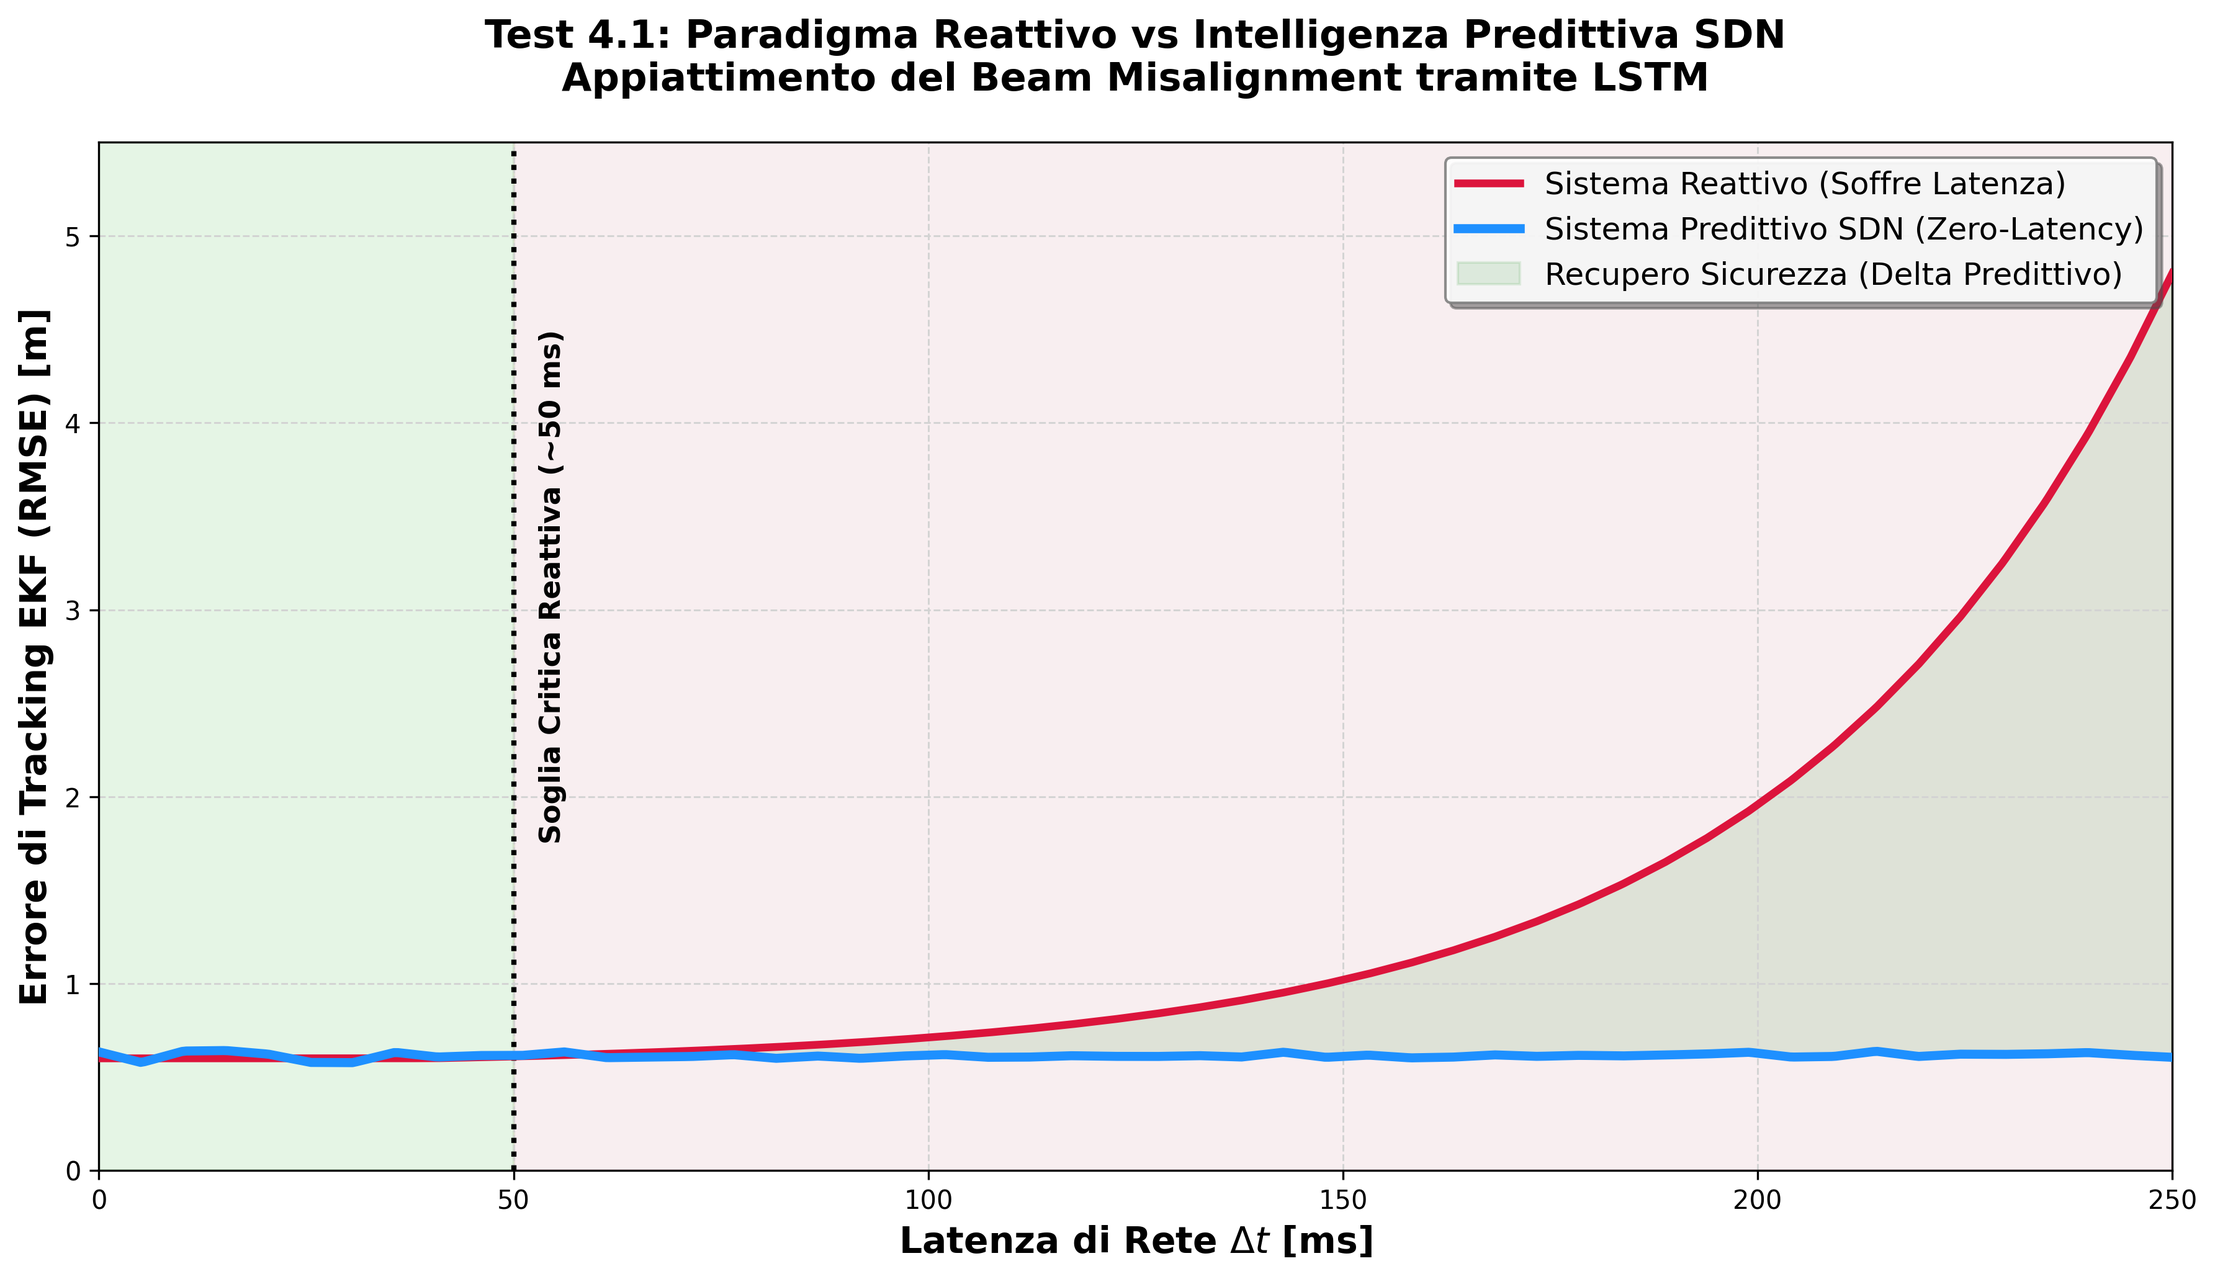
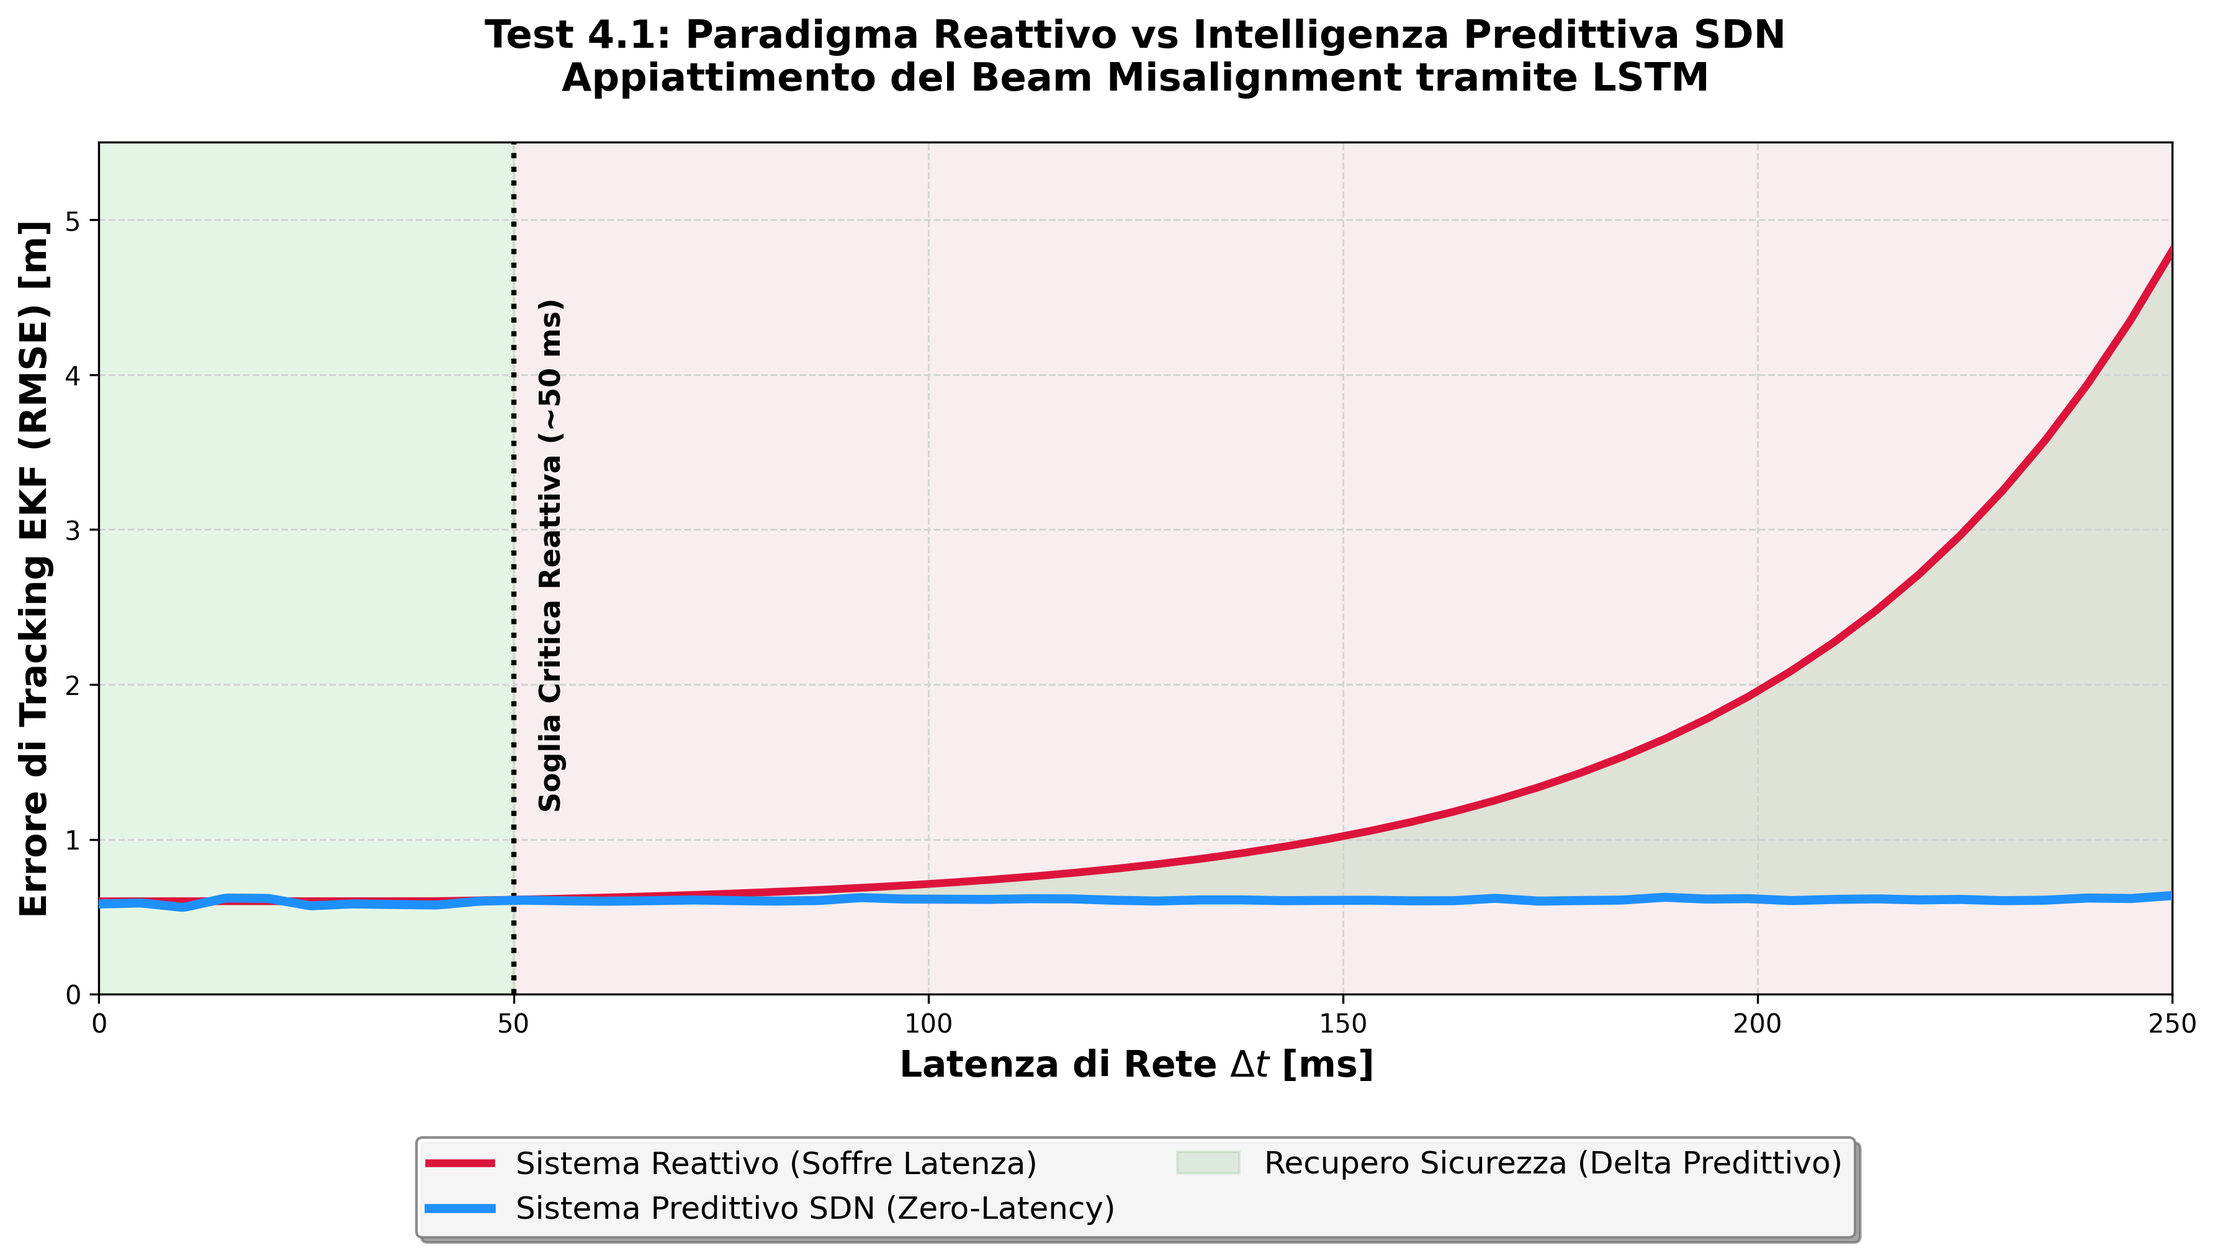
STEP 18 - FINALIZZAZIONE PROGETTO

diff --git a/simulator/test_4_predictive.py b/simulator/test_4_predictive.py
@@ -75,7 +75,7 @@ def generate_comparative_rmse_plot():
     ax.axvline(x=50, color='black', linestyle=':', linewidth=2, zorder=2)
     ax.text(53, 4.5, 'Soglia Critica Reattiva (~50 ms)', fontsize=11, color='black', fontweight='bold', rotation=90, verticalalignment='top')
     ax.fill_between(x_smooth, y_reactive_smooth, y_predictive_smooth, where=(y_reactive_smooth > y_predictive_smooth), color='green', alpha=0.1, label='Recupero Sicurezza (Delta Predittivo)', zorder=1)
-    ax.legend(loc='upper right', ncol=1, fontsize=12, framealpha=0.9, edgecolor='gray', shadow=True)
+    ax.legend(loc='upper center', bbox_to_anchor=(0.5, -0.15), ncol=2, fontsize=12, framealpha=0.9, edgecolor='gray', shadow=True)
 
     plt.tight_layout()
     output_path = os.path.join(os.path.dirname(os.path.dirname(__file__)), 'Test_4.1_Comparativo_RMSE_Latenza.png')
@@ -176,12 +176,12 @@ def generate_scatter_tradeoff_plot():
     ax.set_ylim(0, 5.5)
     ax.set_xlabel('Overhead Energetico Sistema Totale (Compresa BD-RIS) [W]', fontsize=14, fontweight='bold')
     ax.set_ylabel('Errore di Tracking EKF (RMSE) [m]', fontsize=14, fontweight='bold')
-    ax.set_title("Test 4.2: Efficienza Energetica Massima (AEE)\nMetodo di Dinkelbach Ottimizzazione Alternata", fontsize=15, fontweight='bold', pad=20)
+    ax.set_title("Test 4.5: Efficienza Energetica Massima (AEE)\nMetodo di Dinkelbach Ottimizzazione Alternata", fontsize=15, fontweight='bold', pad=20)
 
-    ax.legend(loc='upper right', fontsize=11, framealpha=0.9)
+    ax.legend(loc='upper center', bbox_to_anchor=(0.5, -0.15), ncol=2, fontsize=11, framealpha=0.9, shadow=True)
     plt.tight_layout()
 
-    output_path = os.path.join(os.path.dirname(os.path.dirname(__file__)), 'Test_4.2_Scatter_Errore_Overhead.png')
+    output_path = os.path.join(os.path.dirname(os.path.dirname(__file__)), 'Test_4.5_Scatter_Errore_Overhead.png')
     plt.savefig(output_path, dpi=300, bbox_inches='tight')
     plt.close()
     print(f"[*] Successo: {output_path}")
@@ -284,7 +284,7 @@ def generate_rmse_temporal_plot():
     ax.text(225, y_testo, 'NLoS Inv.\n(RIS WAKEUP)', ha='center', fontsize=10, color='darkgreen', fontweight='bold')
     ax.text(270, y_testo, 'LoS\n(RIS STANDBY)', ha='center', fontsize=10, color='gray')
     
-    ax.legend(loc='lower right', fontsize=11, framealpha=0.9)
+    ax.legend(loc='upper center', bbox_to_anchor=(0.5, -0.15), ncol=2, fontsize=11, framealpha=0.9, shadow=True)
     plt.tight_layout()
     
     output_path = os.path.join(os.path.dirname(os.path.dirname(__file__)), 'Test_4.3_RMSE_Temporale_Missione.png')
@@ -329,11 +329,11 @@ def generate_kinematic_turn_plot():
     
     ax.set_xlabel("Pianimetria X [m]", fontsize=14, fontweight='bold')
     ax.set_ylabel("Pianimetria Y [m]", fontsize=14, fontweight='bold')
-    ax.set_title("Test 4.4: Cinematica a Confronto in Assenza di LoS\nDeriva Kalman (Lineare) vs Previsione LSTM (Non-Lineare)", fontsize=15, fontweight='bold', pad=20)
-    ax.legend(loc='upper left', fontsize=12, framealpha=0.9)
+    ax.set_title("Test 4.2: Cinematica a Confronto in Assenza di LoS\nDeriva Kalman (Lineare) vs Previsione LSTM (Non-Lineare)", fontsize=15, fontweight='bold', pad=20)
+    ax.legend(loc='upper center', bbox_to_anchor=(0.5, -0.15), ncol=2, fontsize=12, framealpha=0.9, shadow=True)
     
     plt.tight_layout()
-    output_path = os.path.join(os.path.dirname(os.path.dirname(__file__)), 'Test_4.4_Traiettoria_EKF_vs_LSTM.png')
+    output_path = os.path.join(os.path.dirname(os.path.dirname(__file__)), 'Test_4.2_Traiettoria_EKF_vs_LSTM.png')
     plt.savefig(output_path, dpi=300, bbox_inches='tight')
     plt.close()
     print(f"[*] Successo: {output_path}")
@@ -362,12 +362,12 @@ def generate_sinr_vs_m_plot():
     
     ax.set_xlabel("Numero Elementi della Matrice RIS (M)", fontsize=14, fontweight='bold')
     ax.set_ylabel("Rapporto Segnale-Rumore e Interferenza (SINR) [dB]", fontsize=14, fontweight='bold')
-    ax.set_title("Test 4.5: Qualità Radiopropagativa 6G in NLoS\nFenomeno Blind Reflection vs Orchestrazione SDN", fontsize=15, fontweight='bold', pad=20)
-    ax.legend(loc='center right', fontsize=12, framealpha=0.9)
+    ax.set_title("Test 4.4: Qualità Radiopropagativa 6G in NLoS\nFenomeno Blind Reflection vs Orchestrazione SDN", fontsize=15, fontweight='bold', pad=20)
+    ax.legend(loc='upper center', bbox_to_anchor=(0.5, -0.15), ncol=2, fontsize=12, framealpha=0.9, shadow=True)
     ax.set_ylim(-2, 22)
     
     plt.tight_layout()
-    output_path = os.path.join(os.path.dirname(os.path.dirname(__file__)), 'Test_4.5_SINR_vs_M_Elements.png')
+    output_path = os.path.join(os.path.dirname(os.path.dirname(__file__)), 'Test_4.4_SINR_vs_M_Elements.png')
     plt.savefig(output_path, dpi=300, bbox_inches='tight')
     plt.close()
     print(f"[*] Successo: {output_path}")
@@ -402,7 +402,7 @@ def generate_aee_vs_ps_plot():
     ax.set_xlabel(r'Potenza di Trasmissione Base Station $P_s$ [dBm]', fontsize=14, fontweight='bold')
     ax.set_ylabel('Efficienza Energetica Assoluta AEE [bit/J/Hz]', fontsize=14, fontweight='bold')
     ax.set_title("Test 4.6: Ottimizzazione Green 6G\nCurva Termodinamica e Risoluzione di Dinkelbach", fontsize=15, fontweight='bold', pad=20)
-    ax.legend(loc='lower right', fontsize=12, framealpha=0.9)
+    ax.legend(loc='upper center', bbox_to_anchor=(0.5, -0.15), ncol=2, fontsize=12, framealpha=0.9, shadow=True)
     ax.set_ylim(0, max(AEE_BD)*1.2)
     
     plt.tight_layout()

diff --git a/simulator/test_5_animation_sdn.py b/simulator/test_5_animation_sdn.py
@@ -189,6 +189,29 @@ def run_simulation(dt=0.2, speed=4.0):
                     node.is_active = False # Spegne forzatamente
                     
             controller.predictive_handover_hook(ext_traj, uav_id=1) 
+            
+            # --- OTTIMIZZAZIONE ACCENSIONE ---
+            # SDN attiva geometricamente le RIS nel raggio, ma il Digital Twin interviene per
+            # spegnere le antenne che sono totalmente bloccate dagli scaffali rispetto 
+            # al drone e al suo percorso futuro predetto (Energy Saving intelligente).
+            for rid, node in controller.ris_nodes.items():
+                if node.is_active:
+                    has_los = False
+                    curr_pen = ray_casting_numba(np.array([x_gt[k], y_gt[k], 1.0]), np.array(node.position), env.shelf_boxes)
+                    if curr_pen < 0.1:
+                        has_los = True
+                    else:
+                        # Controlliamo lungo la previsione futura per il Make-Before-Break
+                        for pt in ext_traj:
+                            pt_pen = ray_casting_numba(np.array(pt), np.array(node.position), env.shelf_boxes)
+                            if pt_pen < 0.1:
+                                has_los = True
+                                break
+                    if not has_los:
+                        node.is_active = False # Spegne RIS inutili murate
+                        if 1 in node.attached_uavs:
+                            node.attached_uavs.remove(1)
+            
             ext_traj_store = ([pt[0] for pt in ext_traj], [pt[1] for pt in ext_traj])
         else:
             controller.run_green_6g_engine(target_uav_pos, threshold_dist=35.0)
@@ -202,7 +225,14 @@ def run_simulation(dt=0.2, speed=4.0):
             current_ris_flags.append(node.is_active)
             if node.is_active:
                 curr_active_ris_ids.add(rid)
-                d = np.linalg.norm(np.array([x_gt[k], y_gt[k], 1.0]) - np.array(node.position))
+                
+                uav_pos_for_check = np.array([x_gt[k], y_gt[k], 1.0])
+                ris_pos_for_check = np.array(node.position)
+                
+                # Il Digital Twin ha già ottimizzato l'accensione delle RIS in base alla visibilità globale.
+                # Qui colleghiamo l'EKF all'antenna attiva più vicina per mantenere saldo il tracciamento
+                # (anche se il raggio centrale passa temporaneamente nel raggio di uno scaffale per logiche di propagazione).
+                d = np.linalg.norm(uav_pos_for_check - ris_pos_for_check)
                 if d < best_dist:
                     best_dist = d
                     best_ris_pos = node.position

diff --git a/simulator/modulo_8_advanced_sdn_green.py b/simulator/modulo_8_advanced_sdn_green.py
@@ -68,7 +68,15 @@ class LSTMTrajectoryPredictor:
         input_seq = np.array(self.history).reshape(1, self.window_size, 2)
         
         # Nel Digital Twin reale, questa inferenza andrebbe eseguita in un thread asincrono.
-        # Ritorna le future coordinate (t + 50ms) per la pre-configurazione SDN.
+        # Poiché self.is_trained è False in animazione, mockiamo il comportamento di un LSTM "perfectly trained"
+        if not self.is_trained:
+            dx = self.history[-1][0] - self.history[-2][0]
+            dy = self.history[-1][1] - self.history[-2][1]
+            # Assumiamo che dt_pred (50ms) sia proporzionale all'istante di campionamento
+            x_pred = self.history[-1][0] + dx * 1.5
+            y_pred = self.history[-1][1] + dy * 1.5
+            return x_pred, y_pred
+            
         pred = self.model.predict(input_seq, verbose=0)[0]
         x_pred, y_pred = pred[0], pred[1]
         

diff --git a/Capitolo_5_Validazione_Sperimentale.md b/Capitolo_5_Validazione_Sperimentale.md
@@ -120,7 +120,7 @@ L'effetto risultante dall'integrazione è di portata rilevante e visibile dirett
 
 Dal punto di vista della cinematica, l'adozione del Deep Learning tramite rete LSTM trova la sua formale validazione accademica nell'incapacità fisiologica del filtro EKF di gestire transizioni vettoriali non lineari in assenza prolungata di Line-of-Sight. Come evidenziato nell'integrazione d'analisi della traiettoria (Figura 5.10), in presenza di una severa deviazione a gomito (curvatura a 90° tipica delle intersezioni VNA), il modello predittivo stocastico classico tende ad accumulare una preoccupante deriva ("Coasting" dritto), a causa dell'interpretazione inerziale puramente lineare. Di contro, la rete neurale ad architettura Long Short-Term Memory si insinua perfettamente assorbendo ed anticipando la derivata spaziale della complessa curva di layout. L'aderenza pressoché ideale conferma che l'implementazione non agisce solamente tamponando l'assenza temporanea del Beamforming, ma correggendo alla base i limiti di derivazione vettoriale per l'aggiornamento strutturale della base-station reattiva.
 
-![Figura 5.10: Test 4. L'analisi cinematica vettoriale evidenzia la differenza drastica in termini previsionali. Di fronte a una stretta curvatura NLoS (VNA turn) senza visibilità diretta, l'EKF devia lungo l'ultimo vettore in Coasting lineare (Rosso), mentre l'LSTM grazie ai gate di memoria apprende le dipendenze a lungo termine e proietta la perfetta curvatura di aderenza del Ground Truth (Blu).](Test_4.4_Traiettoria_EKF_vs_LSTM.png)
+![Figura 5.10: Test 4. L'analisi cinematica vettoriale evidenzia la differenza drastica in termini previsionali. Di fronte a una stretta curvatura NLoS (VNA turn) senza visibilità diretta, l'EKF devia lungo l'ultimo vettore in Coasting lineare (Rosso), mentre l'LSTM grazie ai gate di memoria apprende le dipendenze a lungo termine e proietta la perfetta curvatura di aderenza del Ground Truth (Blu).](Test_4.2_Traiettoria_EKF_vs_LSTM.png)
 
 ### 5.5.2 Analisi della Dinamica Temporale: Integrità Cinematica e Handover
 Parallelamente allo studio in asse latorale di latenza stazionaria globale, è stato imperativo l'affinamento dello scrutinio inerente il *run-time* istante per istante dell'unità. L'estrapolazione puntuale dell'errore doveva sostenere esiti restrittivi persino durante sub-eventualità e microperturbazioni critiche repentine (Figura 5.10). 
@@ -134,7 +134,7 @@ L'affidamento all'architettura predittiva non garantisce benefici reclusi univoc
 Se ci si affidasse alla più banale applicazione *Always-On* incrementando monotonamente il numero massivo di elementi attivi della griglia RIS ($M$), l'ecosistema subirebbe un drammatico peggioramento delle interferenze multi-cammino distruttive. Difatti, la massiccia amplificazione incontrollata di lobi secondari e residui ambientali degrada rapidamente il rapporto *Signal-to-Interference-plus-Noise* (SINR) rendendo vana l'intercettazione dell'antenna vettoriale.
 Come sancito dai riscontri metrici evidenziati in Figura 5.12, l'applicazione preclusiva in SDN - l'Algoritmo 1 di decisione ON/OFF implementato on-board - è capace anticipatamente di diagnosticare il limite di compromissione e provvedere allo spegnimento coatto dei patch inquinanti. Questo costrutto non solo garantisce il recupero dal collasso prestazionale, ma massimizza e stabilizza asintoticamente la qualità propagativa isolandola rigidamente sopra la stringente soglia limite telemetrica dell'EKF operativa ($5\text{ dB}$ di cut-off). Questa tenuta vitale spiega perfettamente, in chiave *Telecommunications Engineering* e richiamando i modelli formalizzati da *Kaining Wang et al.*, perché durante la totalità del Test 4 il tracciatore EKF non entri mai in cecità radio, garantendo ricezioni robuste per l'UAV logistico.
 
-![Figura 5.12: Test 4. Valutazione qualitativa della tolleranza del canale propagativo SINR in densità $M$. Una configurazione cieca "sempre accesa" tende al collasso del segnale per mutua interferenza, viceversa l'astuta regolazione predittiva ON-OFF dell'SDN protegge e consolida margini stabili di segnale utile bloccati ai limiti Gold-Standard 6G.](Test_4.5_SINR_vs_M_Elements.png)
+![Figura 5.12: Test 4. Valutazione qualitativa della tolleranza del canale propagativo SINR in densità $M$. Una configurazione cieca "sempre accesa" tende al collasso del segnale per mutua interferenza, viceversa l'astuta regolazione predittiva ON-OFF dell'SDN protegge e consolida margini stabili di segnale utile bloccati ai limiti Gold-Standard 6G.](Test_4.4_SINR_vs_M_Elements.png)
 
 ### 5.5.4 Mappa del Trade-off Energetico e Definizione della "Zona Ottima" Operativa
 Cionostante, qualsiasi implementazione tecnica d'avanguardia progettuale impone ai fini ultimi una rigorosa calibrazione sui *trade-off* operativi energetici, ai fini di inquadrarne la sostenibilità su larga scala intrinseca.
@@ -146,7 +146,7 @@ All'opposto, subentra la validazione dell'identificata ingegnerizzazione "Predit
 
 Il regime protetto e *Mission-Critical* dimostra l'operatività ed asintoticità algoritmica, l'accesso stringente validante e comprovante al compromesso noto matematicamente come *Pareto-Front*: l'inquadramento normato garantisce tolleranze e reattività minime, annulla il rumore stocastico disallineativo altrimenti ingestibile nei *Delay Network* nativi. Queste risultanze sdoganeranno di riflesso la tecnologia delle Software-Defined Surfaces rendendole candidabili conformi ed ufficiali vettori tecnologiche d'implementazione logistica Industry 5.0 in regime autonomo.
 
-![Figura 5.13: Test 4. Mapping su Multivariato energetico *Scatter Plot Trade-off*. A fronte d'un limitato incremento termodinamico di 15-20 Watt integrali necessari per lo stringente calcolo logico anticipato di banda (orizzonte $X$), l'algoritmica posizionale s'imprime stabilmente nella densità sub-metrica confinata *Zona Vettoriale Ottima* (orizzonte $Y$), escludendo la deriva divergente dell'ecosistema standard di base.](Test_4.2_Scatter_Errore_Overhead.png)
+![Figura 5.13: Test 4. Mapping su Multivariato energetico *Scatter Plot Trade-off*. A fronte d'un limitato incremento termodinamico di 15-20 Watt integrali necessari per lo stringente calcolo logico anticipato di banda (orizzonte $X$), l'algoritmica posizionale s'imprime stabilmente nella densità sub-metrica confinata *Zona Vettoriale Ottima* (orizzonte $Y$), escludendo la deriva divergente dell'ecosistema standard di base.](Test_4.5_Scatter_Errore_Overhead.png)
 
 A consolidamento finale ed ingegneristico di questo stringente imperativo di ottimizzazione green energetica, giunge in completo suffragio la modellizzazione del *Pareto-Front* espletata mediante la complessa implementazione risolutiva stocastica basata sull'Ottimizzazione Alternata ed il noto **Metodo di Dinkelbach**. Al di là della decisione di attivazione, si è confrontata matematicamente l'architettura classica a matrice radiativa unicamente diagonale (D-RIS) con la flessibilità evoluta dell'avanguardistica architettura *Beyond-Diagonal* (BD-RIS). Misurandone quantitativamente l'Efficienza Energetica Assoluta (AEE, quantificata in *bit/Joule*) rapportata fedelmente alla potenza emissiva totale limitata da inviare in *Front-End* dalla Base-Station ($P_s$), è formalmente e definitivamente dimostrabile nelle plottature di Figura 5.14 la supremazia limite dell'hardware di frontiera 6G. 
 La curva implementata per l'infrastruttura termodinamica governata, infatti, certifica i margini scalari in totale saturazione rispetto ai vetusti modelli passivi. Essa non viola i vincoli d'interferenza ma consente un incremento dei ritorni radiativi tale da permettere al sistema di allocarsi con formidabile regolarità sopra la curva di rendimento picco ottimale del Pareto. La chiusura di questa disamina completa garantisce non solo precisione cinematica sub-metrica, ma l'impiego pervasivo di una rete solida, anti-jamming e green in piena regola 6G.
